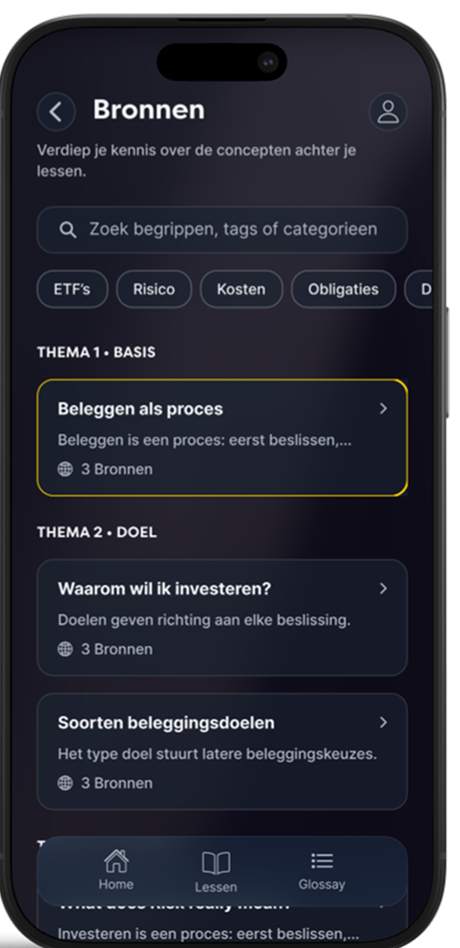
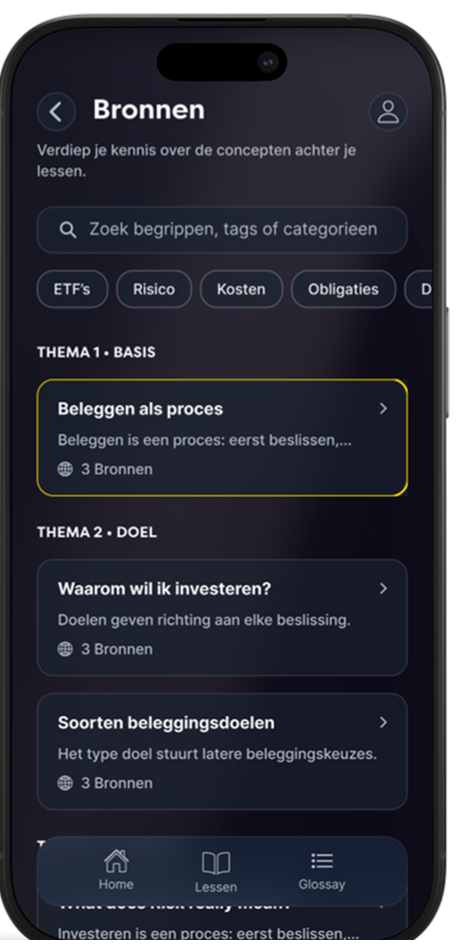
cards copy fix

Changed region(s): [[0.0, 0.9789, 0.8826, 1.0]]

diff --git a/styles.css b/styles.css
@@ -887,9 +887,10 @@ em { font-style: normal; color: var(--accent); }
   border: 1px solid var(--rule);
   border-radius: 18px;
   padding: 24px;
-  display: grid; gap: 12px;
+  display: grid;
+  gap: 14px;
   align-content: start;
-  min-height: 220px;
+  min-height: 244px;
   transition: background .3s var(--ease), border-color .3s var(--ease), transform .3s var(--ease);
 }
 .ai__card:hover { transform: translateY(-3px); border-color: rgba(255,213,0,.5); }
@@ -900,8 +901,17 @@ em { font-style: normal; color: var(--accent); }
   display: grid; place-items: center;
   font-size: var(--t-body); color: var(--accent);
 }
-.ai__card b { font-family: var(--serif); font-weight: 700; font-size: var(--t-bodyL); }
-.ai__card p { font-size: var(--t-eyebrow); color: var(--fg-dim); line-height: 1.5; }
+.ai__card b {
+  font-family: var(--serif);
+  font-weight: 700;
+  font-size: var(--t-bodyL);
+  line-height: 1.2;
+}
+.ai__card p {
+  font-size: var(--t-body);
+  color: var(--fg-dim);
+  line-height: 1.5;
+}
 .ai__foot {
   margin-top: 60px;
   font-family: var(--serif); font-weight: 700;

diff --git a/index.html b/index.html
@@ -334,10 +334,10 @@
     </h2>
 
     <div class="ai__grid">
-      <div class="ai__card"><div class="ai__icon">↗</div><b>Adapts explanations to your level</b><p>Same lesson, different depth — depending on what you already know.</p></div>
-      <div class="ai__card"><div class="ai__icon">⊕</div><b>Contextualises examples</b><p>Examples chosen for your situation, not a generic audience.</p></div>
-      <div class="ai__card"><div class="ai__icon">×</div><b>Never recommends stocks</b><p>Not now. Not ever. That's a hard product principle.</p></div>
-      <div class="ai__card"><div class="ai__icon">×</div><b>Never gives financial advice</b><p>EQTY teaches, you decide. The roles never mix.</p></div>
+      <div class="ai__card"><div class="ai__icon">↗</div><b>Adapts explanations to your level</b><p>Same lesson. Different depth — based on what you already understand.</p></div>
+      <div class="ai__card"><div class="ai__icon">⊕</div><b>Personalises real-world examples</b><p>Examples adapt to your situation, goals and experience level.</p></div>
+      <div class="ai__card"><div class="ai__icon">×</div><b>Never tells you what to buy</b><p>EQTY explains mechanisms and thinking, not investment choices.</p></div>
+      <div class="ai__card"><div class="ai__icon">×</div><b>Never gives financial advice</b><p>The AI supports learning. The final decisions always stay yours.</p></div>
     </div>
     <div class="ai__foot">Just smarter <em>learning.</em></div>
   </div>

diff --git a/app.js b/app.js
@@ -332,7 +332,7 @@
   /* ---------- 7. AI section ---------- */
   softSectionEnter('.ai__inner', '.sec--ai');
   gsap.from('.ai__h', { opacity: 0, y: 36, duration: 1.1, scrollTrigger: { trigger: '.ai__h', start: 'top 82%' } });
-  gsap.from('.ai__card', { opacity: 0, y: 44, duration: 1, stagger: .1, scrollTrigger: { trigger: '.ai__grid', start: 'top 84%' } });
+  gsap.from('.ai__card', { opacity: 0, y: 28, duration: 0.9, scrollTrigger: { trigger: '.ai__grid', start: 'top 84%' } });
   gsap.from('.ai__foot', { opacity: 0, y: 26, duration: 1.05, scrollTrigger: { trigger: '.ai__foot', start: 'top 88%' } });
 
   /* ---------- 8. Philosophy section ---------- */